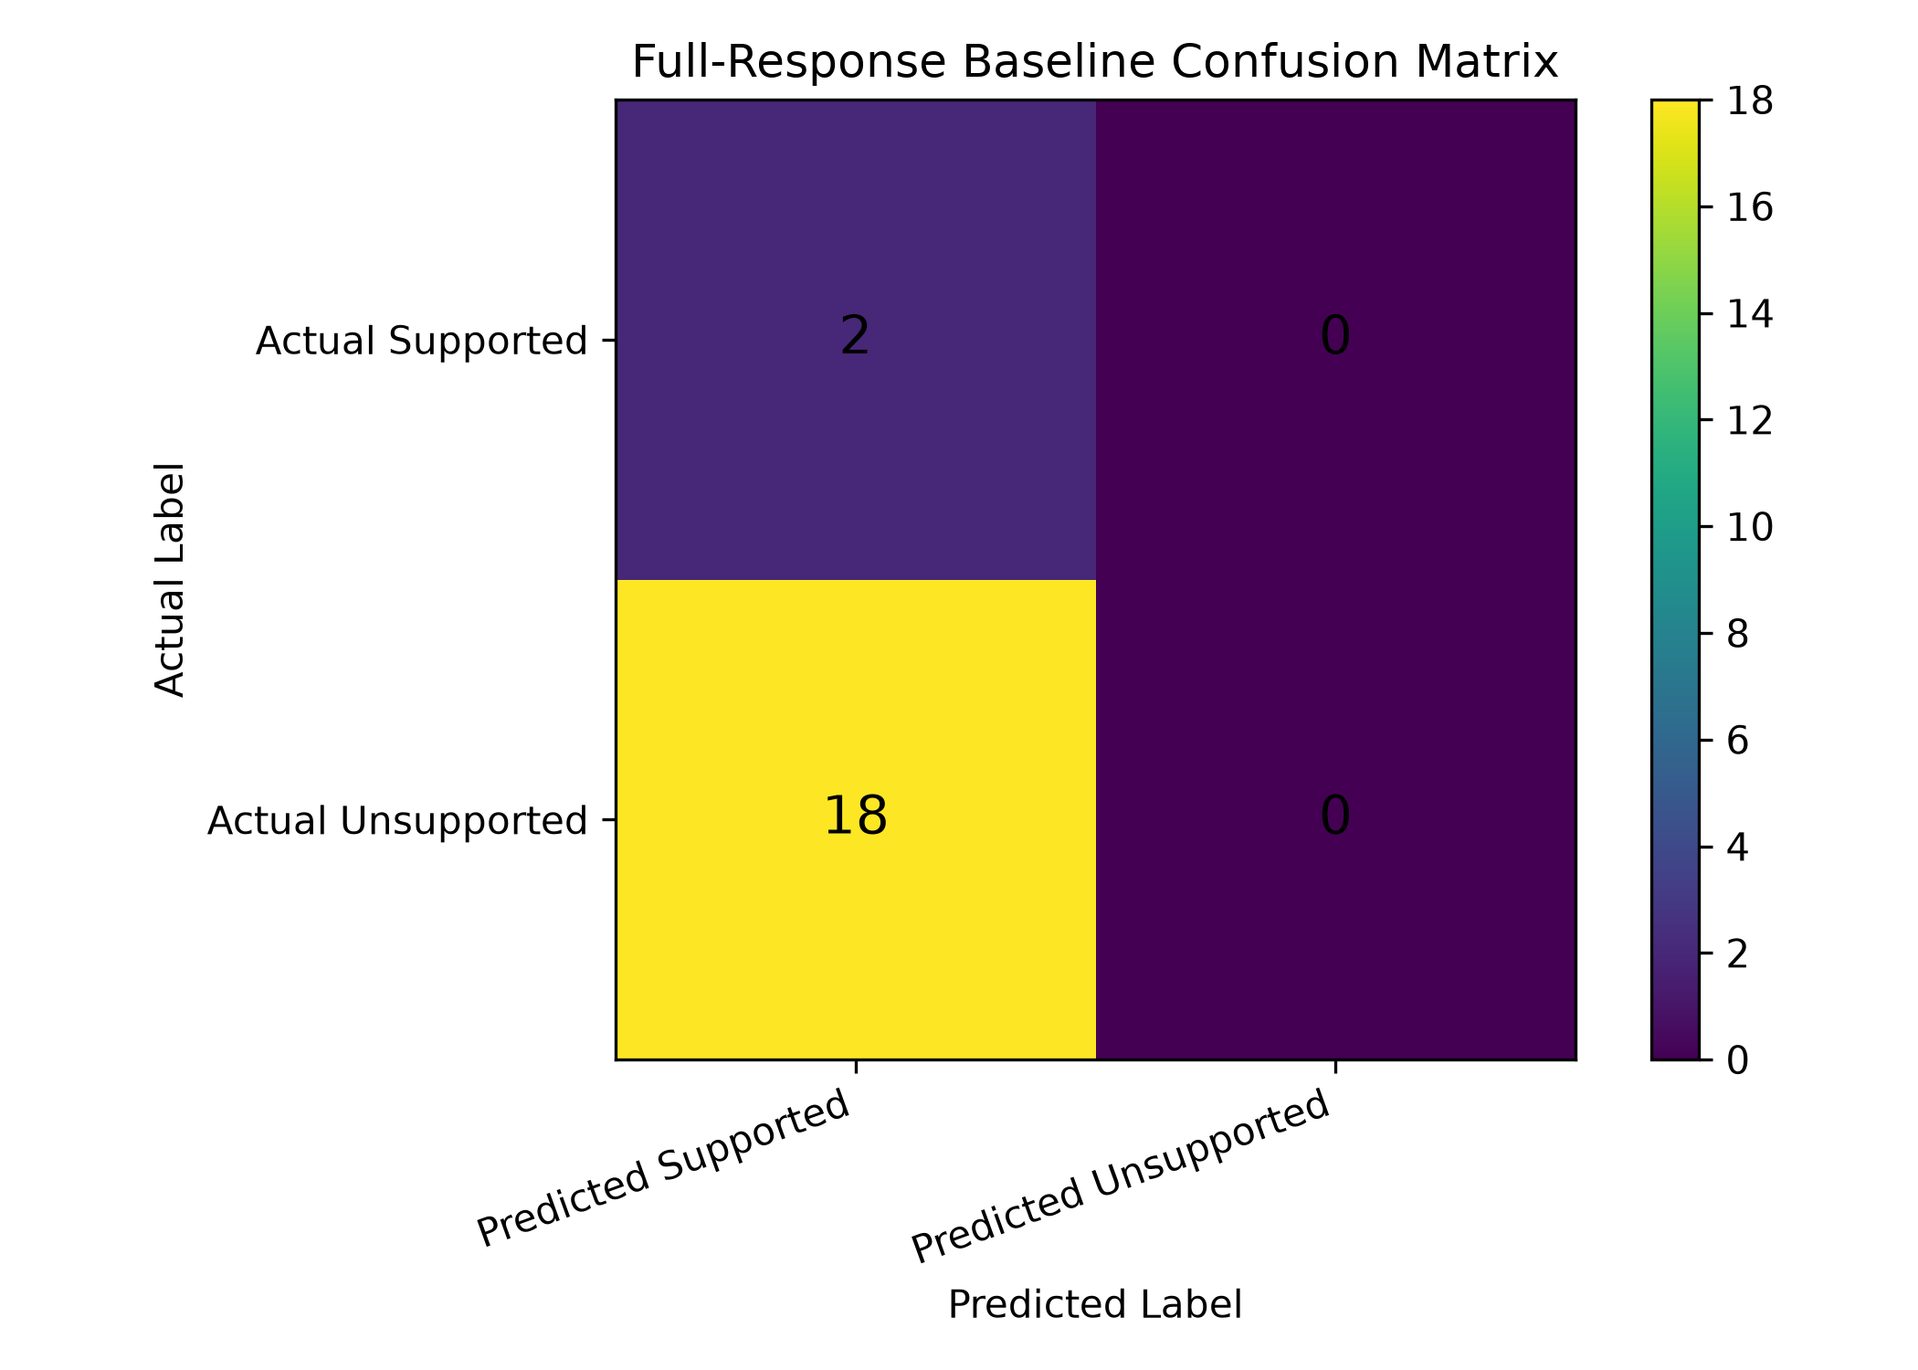
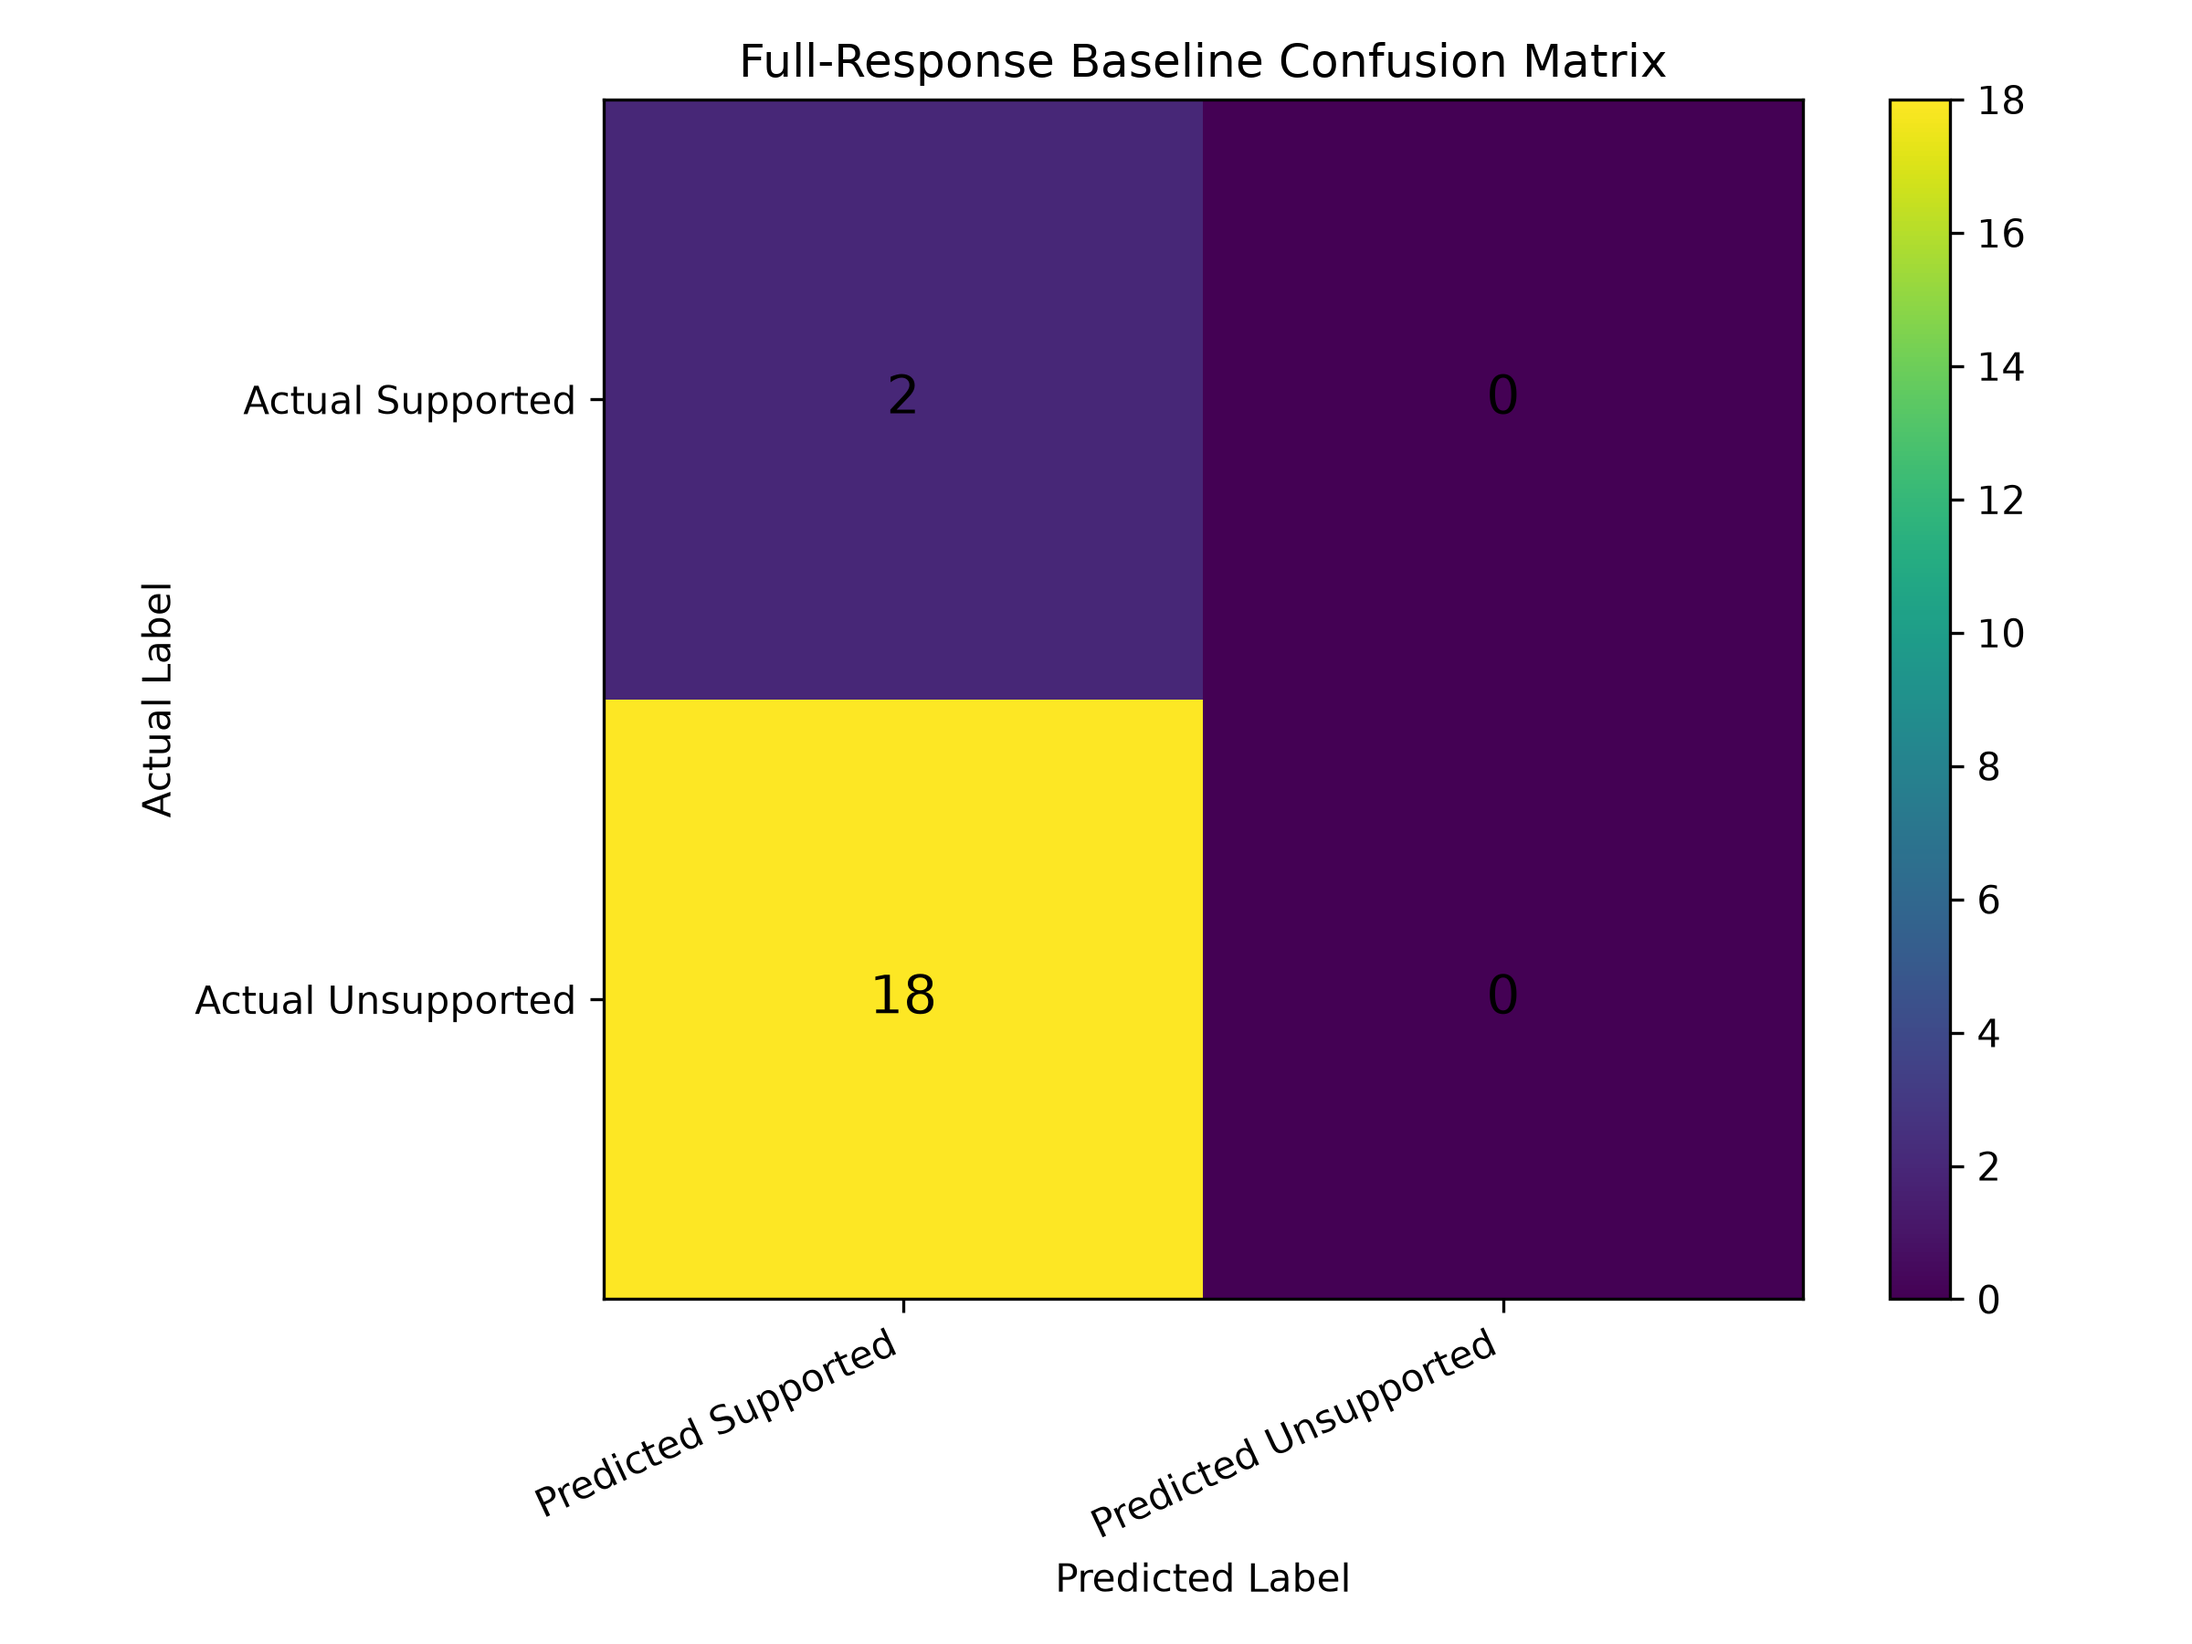
Add NLI evaluation results and updated figures

diff --git a/src/nli_verification_evaluation.py b/src/nli_verification_evaluation.py
@@ -1,0 +1,190 @@
+import pandas as pd
+from sklearn.metrics import accuracy_score, classification_report, confusion_matrix
+from transformers import pipeline
+
+
+# -----------------------------
+# Settings
+# -----------------------------
+MODEL_NAME = "facebook/bart-large-mnli"
+
+input_file = "data/labeled_sentences_final.csv"
+
+output_predictions_file = "results/nli_verification_results.csv"
+output_report_file = "results/nli_evaluation_report.csv"
+output_confusion_file = "results/nli_confusion_matrix.csv"
+
+
+# -----------------------------
+# Load data
+# -----------------------------
+df = pd.read_csv(input_file)
+
+required_columns = ["sentence", "wiki_evidence", "gold_label"]
+
+for column in required_columns:
+    if column not in df.columns:
+        raise ValueError(f"Missing required column: {column}")
+
+
+# -----------------------------
+# Load NLI model
+# -----------------------------
+classifier = pipeline(
+    "text-classification",
+    model=MODEL_NAME,
+    tokenizer=MODEL_NAME,
+    top_k=None
+)
+
+
+def run_nli(evidence, claim):
+    """
+    Use NLI to classify whether the evidence supports,
+    contradicts, or is neutral toward the claim.
+    """
+    if pd.isna(evidence) or str(evidence).strip() == "":
+        return {
+            "nli_label": "neutral",
+            "predicted_label": "Unsupported",
+            "nli_confidence": 0.0,
+            "entailment_score": 0.0,
+            "neutral_score": 1.0,
+            "contradiction_score": 0.0
+        }
+
+    result = classifier(
+        {
+            "text": str(evidence),
+            "text_pair": str(claim)
+        },
+        truncation=True
+    )
+
+    # Different transformers versions can return slightly different nesting.
+    if len(result) > 0 and isinstance(result[0], list):
+        result = result[0]
+
+    scores = {}
+
+    for item in result:
+        label = item["label"].lower()
+        score = float(item["score"])
+        scores[label] = score
+
+    entailment_score = scores.get("entailment", 0.0)
+    neutral_score = scores.get("neutral", 0.0)
+    contradiction_score = scores.get("contradiction", 0.0)
+
+    best_label = max(scores, key=scores.get)
+    best_score = scores[best_label]
+
+    if best_label == "entailment":
+        predicted_label = "Supported"
+    elif best_label == "contradiction":
+        predicted_label = "Contradicted"
+    else:
+        predicted_label = "Unsupported"
+
+    return {
+        "nli_label": best_label,
+        "predicted_label": predicted_label,
+        "nli_confidence": round(best_score, 4),
+        "entailment_score": round(entailment_score, 4),
+        "neutral_score": round(neutral_score, 4),
+        "contradiction_score": round(contradiction_score, 4)
+    }
+
+
+# -----------------------------
+# Run NLI prediction
+# -----------------------------
+nli_results = []
+
+for index, row in df.iterrows():
+    print(f"Running NLI on row {index + 1}/{len(df)}")
+
+    evidence = row["wiki_evidence"]
+    claim = row["sentence"]
+
+    result = run_nli(evidence, claim)
+    nli_results.append(result)
+
+
+nli_df = pd.DataFrame(nli_results)
+
+df["nli_label"] = nli_df["nli_label"]
+df["nli_predicted_label"] = nli_df["predicted_label"]
+df["nli_confidence"] = nli_df["nli_confidence"]
+df["entailment_score"] = nli_df["entailment_score"]
+df["neutral_score"] = nli_df["neutral_score"]
+df["contradiction_score"] = nli_df["contradiction_score"]
+
+
+# -----------------------------
+# Clean labels
+# -----------------------------
+df["gold_label"] = df["gold_label"].astype(str).str.strip()
+df["nli_predicted_label"] = df["nli_predicted_label"].astype(str).str.strip()
+
+valid_labels = ["Supported", "Unsupported", "Contradicted"]
+
+df = df[df["gold_label"].isin(valid_labels)]
+df = df[df["nli_predicted_label"].isin(valid_labels)]
+
+
+# -----------------------------
+# Evaluate NLI predictions
+# -----------------------------
+y_true = df["gold_label"]
+y_pred = df["nli_predicted_label"]
+
+accuracy = accuracy_score(y_true, y_pred)
+
+report = classification_report(
+    y_true,
+    y_pred,
+    labels=valid_labels,
+    zero_division=0,
+    output_dict=True
+)
+
+report_df = pd.DataFrame(report).transpose()
+
+cm = confusion_matrix(
+    y_true,
+    y_pred,
+    labels=valid_labels
+)
+
+confusion_df = pd.DataFrame(
+    cm,
+    index=[f"Actual {label}" for label in valid_labels],
+    columns=[f"Predicted {label}" for label in valid_labels]
+)
+
+df["nli_correct"] = df["gold_label"] == df["nli_predicted_label"]
+
+
+# -----------------------------
+# Save outputs
+# -----------------------------
+df.to_csv(output_predictions_file, index=False)
+report_df.to_csv(output_report_file)
+confusion_df.to_csv(output_confusion_file)
+
+print()
+print("NLI evaluation complete!")
+print()
+print("Accuracy:", accuracy)
+print()
+print("Classification Report:")
+print(report_df)
+print()
+print("Confusion Matrix:")
+print(confusion_df)
+print()
+print("Saved files:")
+print(output_predictions_file)
+print(output_report_file)
+print(output_confusion_file)

diff --git a/src/create_method_comparison.py b/src/create_method_comparison.py
@@ -6,8 +6,8 @@ def read_accuracy(report_df):
     Read accuracy from a sklearn classification_report CSV.
     """
     if "accuracy" in report_df.index:
-        # sklearn stores accuracy differently depending on output format
         row = report_df.loc["accuracy"]
+
         for col in ["precision", "recall", "f1-score"]:
             if col in row and pd.notna(row[col]):
                 return float(row[col])
@@ -31,7 +31,8 @@ def summarize_method(
     method_name,
     unit,
     report_file,
-    predictions_file
+    predictions_file,
+    correct_column="correct"
 ):
     """
     Create one summary row for a verification method.
@@ -41,8 +42,8 @@ def summarize_method(
 
     total_examples = len(predictions_df)
 
-    if "correct" in predictions_df.columns:
-        correct_predictions = int(predictions_df["correct"].sum())
+    if correct_column in predictions_df.columns:
+        correct_predictions = int(predictions_df[correct_column].sum())
         errors = total_examples - correct_predictions
         accuracy = correct_predictions / total_examples
     else:
@@ -57,12 +58,19 @@ def summarize_method(
         "correct_predictions": correct_predictions,
         "errors": errors,
         "accuracy": accuracy,
+
         "supported_precision": get_metric(report_df, "Supported", "precision"),
         "supported_recall": get_metric(report_df, "Supported", "recall"),
         "supported_f1": get_metric(report_df, "Supported", "f1-score"),
+
         "unsupported_precision": get_metric(report_df, "Unsupported", "precision"),
         "unsupported_recall": get_metric(report_df, "Unsupported", "recall"),
         "unsupported_f1": get_metric(report_df, "Unsupported", "f1-score"),
+
+        "contradicted_precision": get_metric(report_df, "Contradicted", "precision"),
+        "contradicted_recall": get_metric(report_df, "Contradicted", "recall"),
+        "contradicted_f1": get_metric(report_df, "Contradicted", "f1-score"),
+
         "macro_precision": get_metric(report_df, "macro avg", "precision"),
         "macro_recall": get_metric(report_df, "macro avg", "recall"),
         "macro_f1": get_metric(report_df, "macro avg", "f1-score"),
@@ -72,23 +80,34 @@ def summarize_method(
     return summary
 
 
-sentence_level_summary = summarize_method(
-    method_name="Sentence-level semantic similarity baseline",
-    unit="sentence",
-    report_file="results/evaluation_report.csv",
-    predictions_file="results/evaluated_predictions.csv"
-)
-
 full_response_summary = summarize_method(
     method_name="Full-response semantic similarity baseline",
     unit="full_response",
     report_file="results/full_response_evaluation_report.csv",
-    predictions_file="results/full_response_baseline_results.csv"
+    predictions_file="results/full_response_baseline_results.csv",
+    correct_column="correct"
+)
+
+sentence_level_summary = summarize_method(
+    method_name="Sentence-level semantic similarity baseline",
+    unit="sentence",
+    report_file="results/evaluation_report.csv",
+    predictions_file="results/evaluated_predictions.csv",
+    correct_column="correct"
+)
+
+nli_summary = summarize_method(
+    method_name="Sentence-level NLI verifier",
+    unit="sentence",
+    report_file="results/nli_evaluation_report.csv",
+    predictions_file="results/nli_verification_results.csv",
+    correct_column="nli_correct"
 )
 
 comparison_df = pd.DataFrame([
     full_response_summary,
-    sentence_level_summary
+    sentence_level_summary,
+    nli_summary
 ])
 
 output_file = "results/method_comparison.csv"

diff --git a/src/create_result_figures.py b/src/create_result_figures.py
@@ -9,8 +9,10 @@ import pandas as pd
 # -----------------------------
 method_file = "results/method_comparison.csv"
 error_file = "results/final_error_analysis_summary.csv"
+
 sentence_confusion_file = "results/confusion_matrix.csv"
 full_response_confusion_file = "results/full_response_confusion_matrix.csv"
+nli_confusion_file = "results/nli_confusion_matrix.csv"
 
 figures_dir = Path("results/figures")
 figures_dir.mkdir(parents=True, exist_ok=True)
@@ -23,7 +25,7 @@ def plot_confusion_matrix(confusion_df, title, output_path):
     """
     Create a labeled confusion matrix figure.
     """
-    fig, ax = plt.subplots(figsize=(7, 5))
+    fig, ax = plt.subplots(figsize=(8, 6))
 
     values = confusion_df.values
     image = ax.imshow(values)
@@ -33,7 +35,7 @@ def plot_confusion_matrix(confusion_df, title, output_path):
     ax.set_ylabel("Actual Label")
 
     ax.set_xticks(range(len(confusion_df.columns)))
-    ax.set_xticklabels(confusion_df.columns, rotation=20, ha="right")
+    ax.set_xticklabels(confusion_df.columns, rotation=25, ha="right")
 
     ax.set_yticks(range(len(confusion_df.index)))
     ax.set_yticklabels(confusion_df.index)
@@ -63,11 +65,12 @@ method_df = pd.read_csv(method_file)
 method_labels = method_df["method"].replace({
     "Full-response semantic similarity baseline": "Full-response baseline",
     "Sentence-level semantic similarity baseline": "Sentence-level baseline",
+    "Sentence-level NLI verifier": "Sentence-level NLI verifier",
 })
 
 accuracy_percent = method_df["accuracy"] * 100
 
-plt.figure(figsize=(8, 5))
+plt.figure(figsize=(9, 5))
 plt.bar(method_labels, accuracy_percent)
 plt.ylabel("Accuracy (%)")
 plt.title("Method Accuracy Comparison")
@@ -85,6 +88,8 @@ plt.close()
 # Figure 2: Error category distribution
 # -----------------------------
 error_df = pd.read_csv(error_file)
+
+# Sort so largest category appears at the top
 error_df = error_df.sort_values("count", ascending=True)
 
 plt.figure(figsize=(10, 6))
@@ -102,13 +107,13 @@ plt.close()
 
 
 # -----------------------------
-# Figure 3: Sentence-level confusion matrix
+# Figure 3: Sentence-level semantic similarity confusion matrix
 # -----------------------------
 sentence_confusion_df = pd.read_csv(sentence_confusion_file, index_col=0)
 
 plot_confusion_matrix(
     confusion_df=sentence_confusion_df,
-    title="Sentence-Level Baseline Confusion Matrix",
+    title="Sentence-Level Similarity Baseline Confusion Matrix",
     output_path=figures_dir / "sentence_level_confusion_matrix.png",
 )
 
@@ -125,8 +130,21 @@ plot_confusion_matrix(
 )
 
 
+# -----------------------------
+# Figure 5: NLI confusion matrix
+# -----------------------------
+nli_confusion_df = pd.read_csv(nli_confusion_file, index_col=0)
+
+plot_confusion_matrix(
+    confusion_df=nli_confusion_df,
+    title="Sentence-Level NLI Verifier Confusion Matrix",
+    output_path=figures_dir / "nli_confusion_matrix.png",
+)
+
+
 print("Figures created successfully:")
 print("results/figures/method_accuracy_comparison.png")
 print("results/figures/error_category_distribution.png")
 print("results/figures/sentence_level_confusion_matrix.png")
 print("results/figures/full_response_confusion_matrix.png")
+print("results/figures/nli_confusion_matrix.png")
